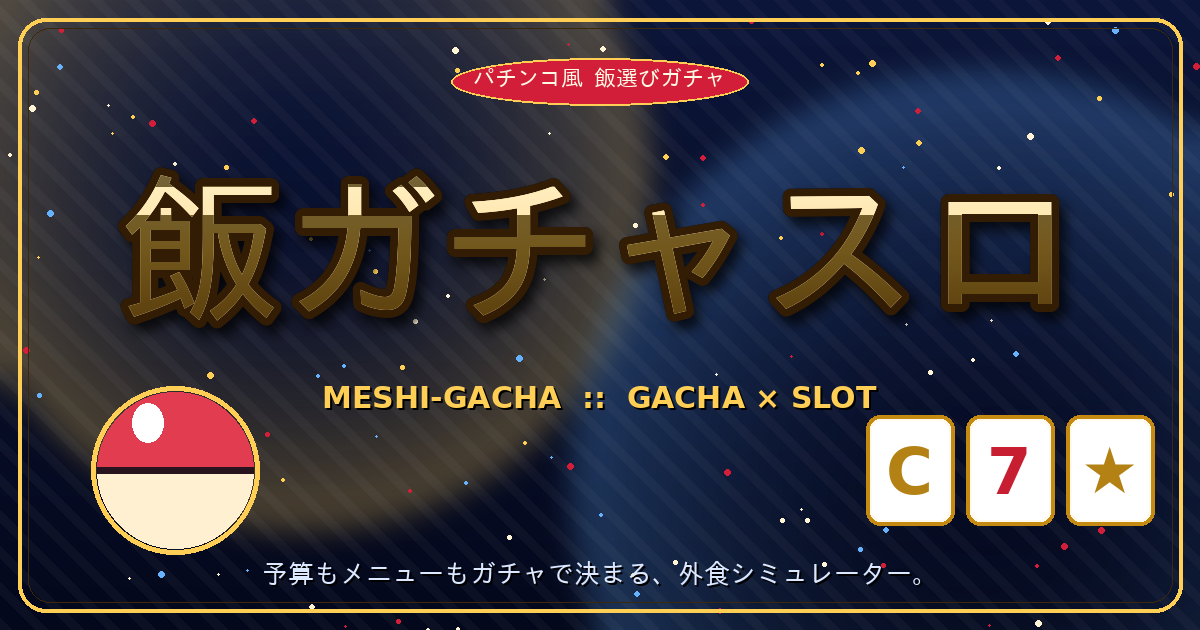
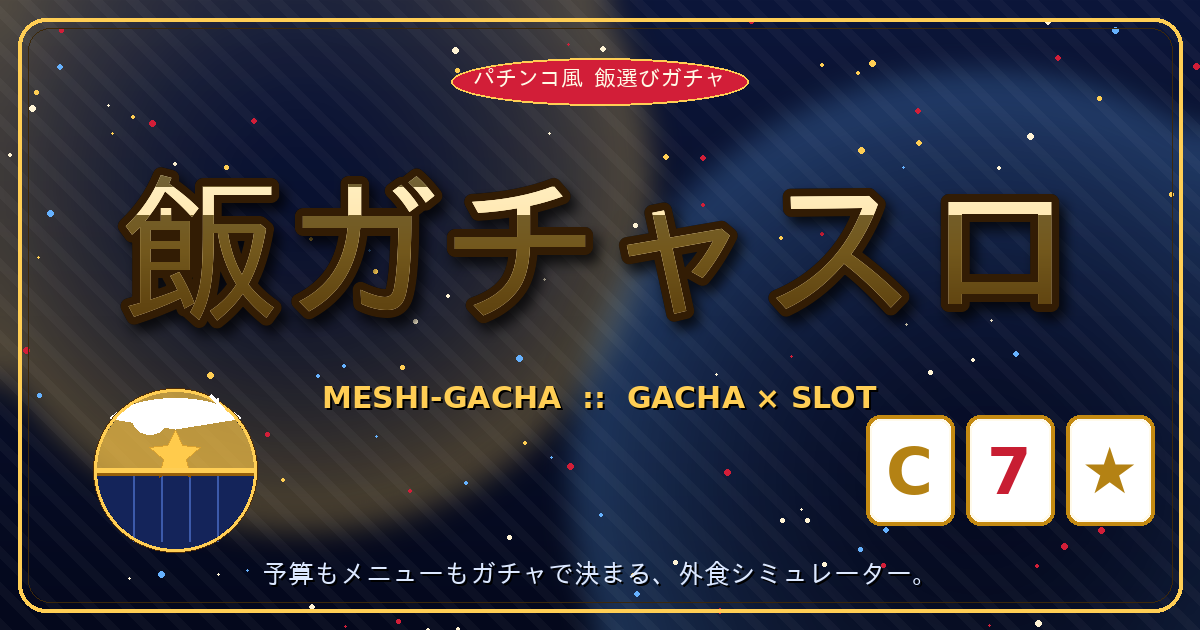
OG画像: カプセルをガチャポン風に変更（ポケボール感を解消）
金の半透明ドーム×紺の下半球、合わせ目を金リング、中身として金星を
覗かせる構図に変更。配色はディープブルー×ゴールドのテーマに揃える。

Changed region(s): [[0.0617, 0.6032, 0.2158, 0.9048]]

diff --git a/tools/gen_ogimage.py b/tools/gen_ogimage.py
@@ -131,17 +131,43 @@ def draw_gold_text(img, xy, text, font, stroke_color=(60,30,0), stroke_w=6):
     return w, h
 
 def draw_capsule(img, cx, cy, r):
+    """ガチャポン風カプセル：金の半透明ドーム上 × 紺の下半球。
+    ポケモンボール感を避けるため、上半球に縦の透明グラデと中の星アイテムを覗かせる。"""
     d = ImageDraw.Draw(img, 'RGBA')
-    # top red
-    d.pieslice([cx-r, cy-r, cx+r, cy+r], 180, 360, fill=(225,60,80,255))
-    # bottom cream
-    d.pieslice([cx-r, cy-r, cx+r, cy+r],   0, 180, fill=(255,240,210,255))
-    # seam
-    d.rectangle([cx-r, cy-3, cx+r, cy+3], fill=(40,20,30,200))
-    # highlight
-    d.ellipse([cx-r*0.55, cy-r*0.85, cx-r*0.15, cy-r*0.35], fill=(255,255,255,180))
-    # gold ring
-    d.ellipse([cx-r-6, cy-r-6, cx+r+6, cy+r+6], outline=GOLD, width=5)
+    # 下半球（紺の不透明）
+    d.pieslice([cx-r, cy-r, cx+r, cy+r],   0, 180, fill=(20, 36, 90, 255))
+    # 下半球の縁影
+    d.pieslice([cx-r, cy-r+3, cx+r, cy+r+3], 0, 180, fill=(8, 16, 50, 180))
+    d.pieslice([cx-r, cy-r,   cx+r, cy+r],   0, 180, fill=(20, 36, 90, 255))
+    # 下半球の縦リブ（プラ容器っぽい筋）
+    for k in (-0.55, -0.18, 0.18, 0.55):
+        x = cx + int(r*k)
+        d.line([(x, cy+2), (x, cy + int(r*0.92))], fill=(60, 90, 170, 110), width=2)
+    # 中身（金の星）—— 半透明ドーム越しに見せる
+    star_pts = []
+    import math as _m
+    for i in range(10):
+        ang = -_m.pi/2 + i*_m.pi/5
+        rr = r*0.34 if i%2==0 else r*0.16
+        star_pts.append((cx + rr*_m.cos(ang), cy - r*0.18 + rr*_m.sin(ang)))
+    d.polygon(star_pts, fill=(255, 210, 90, 235), outline=(140, 80, 0, 255))
+    # 上半球（金の半透明ドーム）
+    dome = Image.new('RGBA', (r*2+8, r+8), (0,0,0,0))
+    dd = ImageDraw.Draw(dome)
+    dd.pieslice([0, 0, r*2, r*2], 180, 360, fill=(255, 200, 70, 170))
+    img.alpha_composite(dome, (cx-r, cy-r))
+    # 上半球の上面ハイライト
+    d.pieslice([cx-r+8, cy-r+6, cx+r-8, cy-r+r-10], 200, 340, fill=(255, 255, 255, 95))
+    d.ellipse([cx-r*0.55, cy-r*0.85, cx-r*0.10, cy-r*0.45], fill=(255, 255, 255, 200))
+    # 合わせ目リング（金）
+    d.rectangle([cx-r-2, cy-2, cx+r+2, cy+3], fill=(255, 206, 84, 255))
+    d.rectangle([cx-r-2, cy+3, cx+r+2, cy+5], fill=(150, 95, 10, 220))
+    # 外周のリム（金縁）
+    d.ellipse([cx-r-4, cy-r-4, cx+r+4, cy+r+4], outline=GOLD, width=4)
+    d.ellipse([cx-r-4, cy-r-4, cx+r+4, cy+r+4], outline=(80, 45, 5, 200), width=1)
+    # キラッ
+    d.line([(cx+r*0.45, cy-r*0.95),(cx+r*0.62, cy-r*0.78)], fill=(255,255,255,230), width=3)
+    d.line([(cx+r*0.55, cy-r*0.92),(cx+r*0.55, cy-r*0.78)], fill=(255,255,255,200), width=2)
 
 def draw_reels(img, cx, cy):
     d = ImageDraw.Draw(img, 'RGBA')
